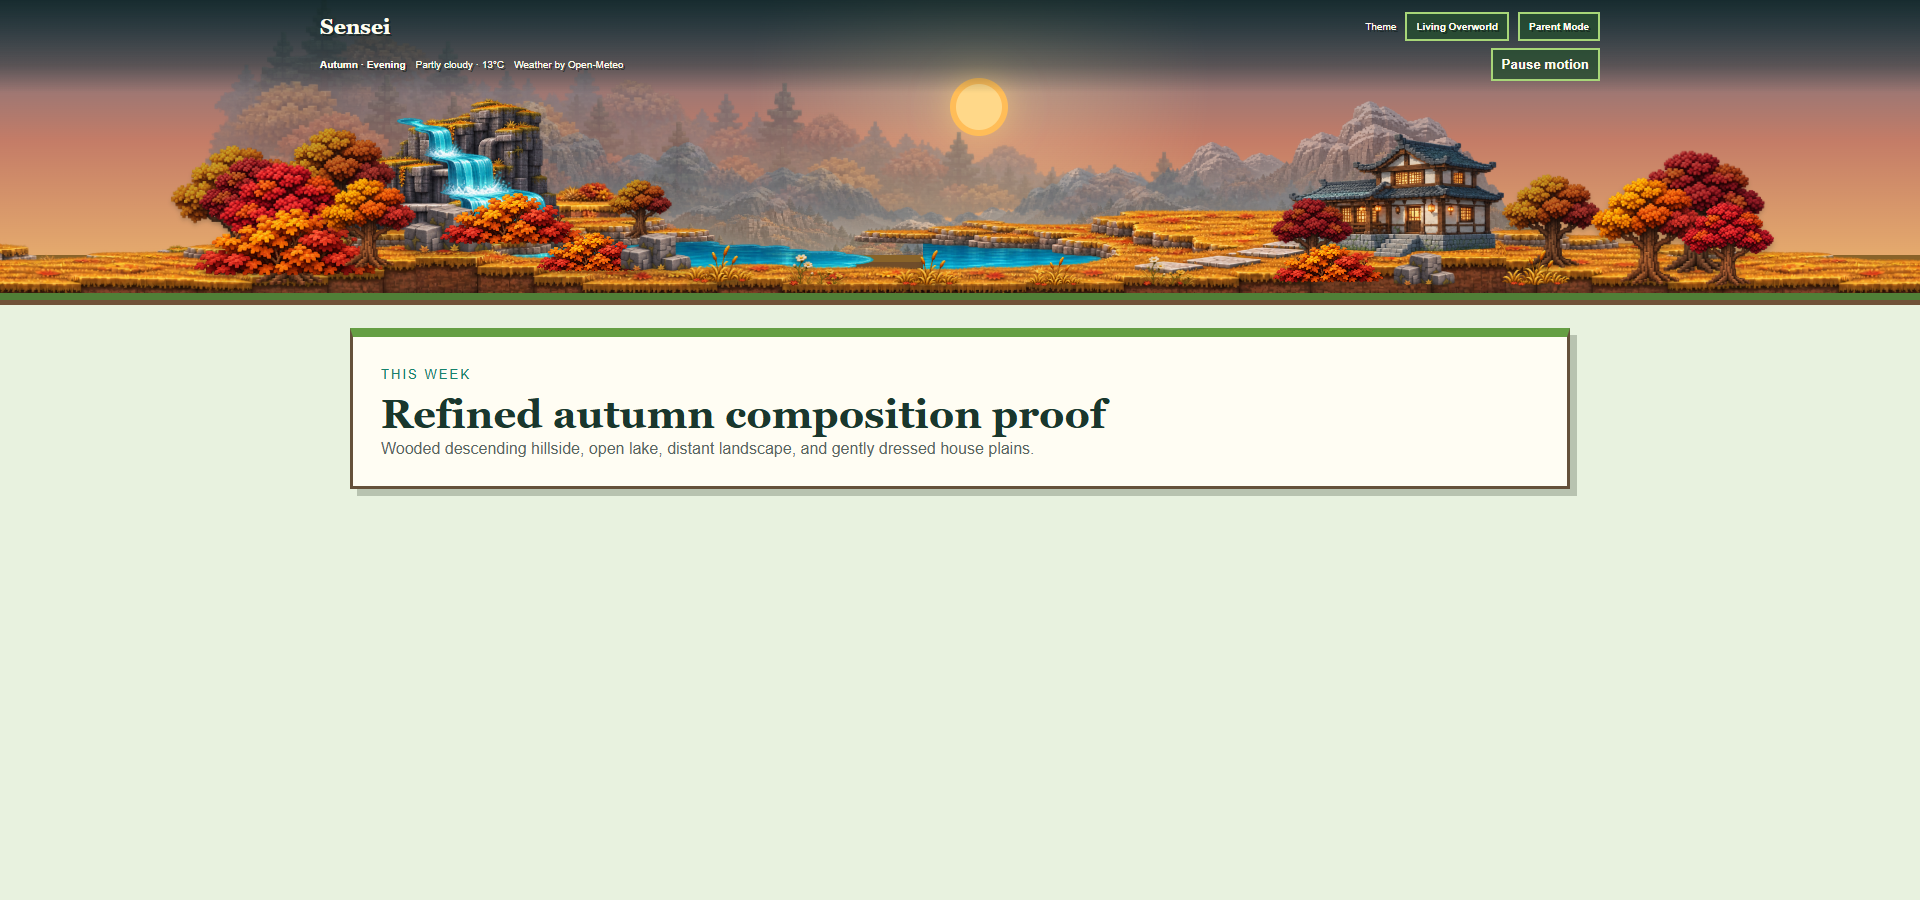
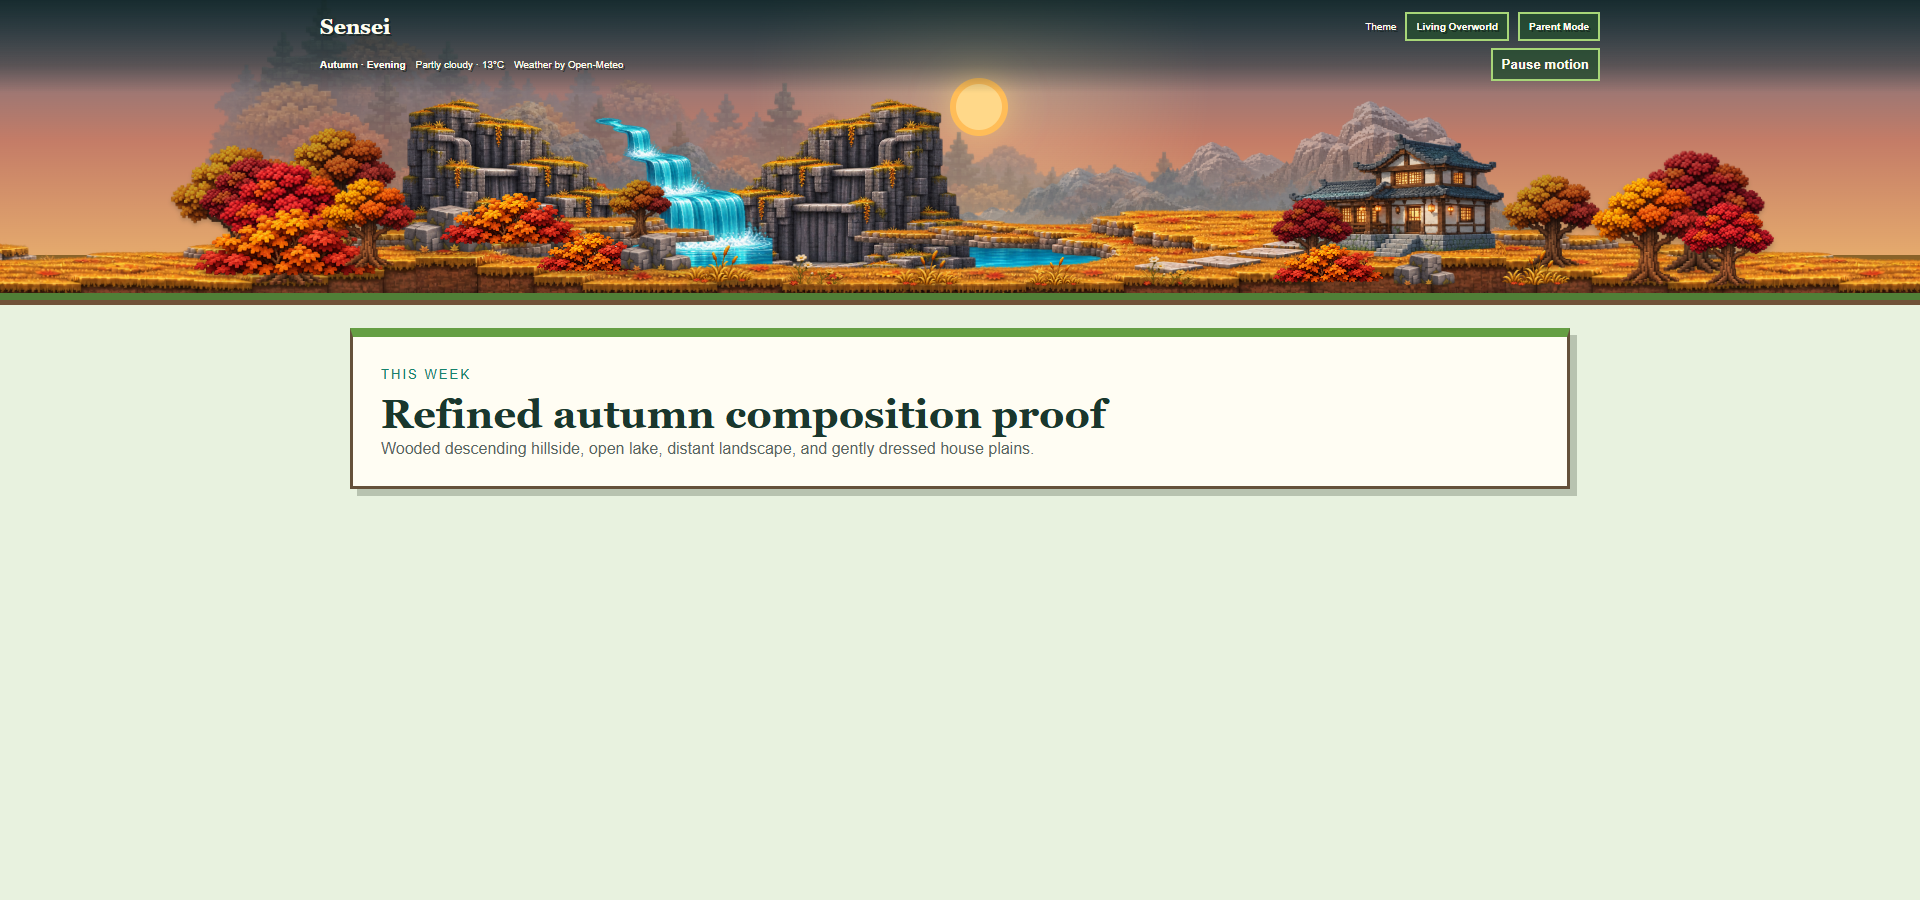
art: place waterfall between mirrored outcrop peaks

Changed region(s): [[0.1875, 0.0933, 0.5312, 0.3111]]

diff --git a/docs/prototypes/living-overworld-autumn-rich.html b/docs/prototypes/living-overworld-autumn-rich.html
@@ -22,10 +22,11 @@
     .lake-extension { z-index: 5; bottom: -2px; width: 650px; clip-path: inset(0 0 0 42%); }
     .lake-extension.bridge { left: calc(50% - 680px); }
     .lake-extension.main { left: calc(50% - 310px); }
-    .waterfall-system { position: absolute; z-index: 6; left: calc(50% - 1010px); bottom: -2px; width: 650px; aspect-ratio: 2172 / 724; pointer-events: none; }
+    .waterfall-system { position: absolute; z-index: 6; left: calc(50% - 610px); bottom: -2px; width: 650px; aspect-ratio: 2172 / 724; pointer-events: none; }
     .waterfall-system img { position: absolute; inset: 0; width: 100%; height: 100%; object-fit: contain; }
-    .waterfall-system .outcrop { z-index: 1; transform: scaleX(-1); }
-    .waterfall-system .water { z-index: 2; transform: translateX(61%); clip-path: inset(0 65% 0 0); }
+    .waterfall-system .outcrop { z-index: 1; }
+    .waterfall-system .outcrop.mirror { transform: scaleX(-1); }
+    .waterfall-system .water { z-index: 2; transform: translateX(30%); clip-path: inset(0 65% 0 0); }
     .meadow { z-index: 6; bottom: -20px; width: 1100px; }
     .meadow.left { right: calc(50% + 500px); }
     .meadow.right { left: calc(50% + 500px); transform: scaleX(-1); }
@@ -38,7 +39,7 @@
     @media (max-width: 1300px) { .scene-object.wide-only { display: none; } }
     @media (min-width: 701px) and (max-width: 1300px) {
       .hillside { left: -300px; }
-      .waterfall-system { left: -200px; }
+      .waterfall-system { left: 0; }
       .lake-extension.bridge { left: -20px; }
       .lake-extension.main { left: 300px; }
     }
@@ -65,7 +66,7 @@
       .lake-extension { bottom: 2px; width: 330px; }
       .lake-extension.bridge { left: -20px; }
       .lake-extension.main { left: 120px; }
-      .waterfall-system { left: -200px; bottom: 2px; width: 330px; }
+      .waterfall-system { left: 0; bottom: 2px; width: 330px; }
       .meadow { display: none; }
       .ground { width: 435px; bottom: -5px; }
       .house { right: -8px; bottom: -2px; width: 365px; }
@@ -96,8 +97,9 @@
     <img class="layer hillside" src="../../public/assets/living-overworld/autumn-modular/terrain-left.png" alt="">
     <img class="layer lake-extension bridge" src="../../public/assets/living-overworld/autumn-structural/water-connected.png" alt="">
     <img class="layer lake-extension main" src="../../public/assets/living-overworld/autumn-structural/water-connected.png" alt="">
-    <div class="waterfall-system" data-geometry="aligned-water-and-outcrop">
-      <img class="outcrop" src="../../public/assets/living-overworld/autumn-structural/waterfall-outcrop.png" alt="">
+    <div class="waterfall-system" data-geometry="anchored-original-with-mirrored-clone">
+      <img class="outcrop original" src="../../public/assets/living-overworld/autumn-structural/waterfall-outcrop.png" alt="">
+      <img class="outcrop mirror" src="../../public/assets/living-overworld/autumn-structural/waterfall-outcrop.png" alt="">
       <img class="water" src="../../public/assets/living-overworld/autumn-structural/water-connected.png" alt="">
     </div>
     <img class="layer meadow left" src="../../public/assets/living-overworld/autumn-structural/meadow-extension.png" alt="">

diff --git a/docs/LIVING_OVERWORLD_AUTUMN_FINAL_WATERFALL_HANDOFF.md b/docs/LIVING_OVERWORLD_AUTUMN_FINAL_WATERFALL_HANDOFF.md
@@ -8,20 +8,22 @@ The mountain groups, central valley, sun position, house, path, right-side plain
 
 Pixel comparison confines rendered changes to the waterfall/lake assembly region:
 
-- Desktop changed bounds: `x 96–943`, `y 84–284` in the 1920×900 proof.
-- Mobile changed bounds: `x 0–278`, `y 65–162` in the 390×844 proof.
+- Desktop changed bounds: `x 357–976`, `y 84–285` in the 1920×900 proof.
+- Mobile changed bounds: `x 25–317`, `y 65–162` in the 390×844 proof.
 
-The desktop sun begins beyond the changed horizontal bounds, and the house/right plains remain outside them.
+The sun and background implementation are unchanged; the desktop change bounds reach its left edge only because the new right outcrop peak occupies nearby foreground pixels. The house and right plains remain outside the changed region.
 
-## Mirrored-outcrop result
+## Dual-outcrop result
 
 The mirror-only experiment was rejected because it left the unmodified cascades suspended over the woodland while moving the supporting rock to the center.
 
-The accepted proof keeps the outcrop horizontally mirrored but:
+The accepted proof uses the original outcrop as the fixed anchor and adds a mirrored clone in the same frame:
 
-- Restores the complete assembly to its approved left-side position.
+- The original outcrop retains its approved position, scale, and orientation.
+- The cloned outcrop is horizontally mirrored to form the opposing peak.
+- The two peaks enclose the waterfall rather than moving the whole assembly to one side.
 - Preserves the waterfall asset's vertical position, scale, and upper elevation.
-- Uses a cascade-only presentation of the existing water asset, shifted 61% horizontally so the three falls sit on the mirrored terraces.
+- Uses a cascade-only presentation of the existing water asset, shifted 30% within the shared frame so the three falls descend between the peaks.
 - Keeps the water in front of cliff faces while the authored ledges remain visible.
 - Uses two lake-only crops from the same existing water asset: a short bridge from the final foam and the original central lake overlap.
 - Adds no artwork and does not change any source image.
@@ -46,9 +48,11 @@ Detail:
 
 The proof capture validates at 390px, 1100px, 1920px, and 32:9:
 
-- The outcrop is horizontally mirrored.
+- The original outcrop remains untransformed and anchored.
+- Its clone occupies the same frame and is horizontally mirrored.
+- Both outcrop frames match exactly.
 - The cascade layer retains the same dimensions and vertical anchor as the rock layer.
-- The expected 61% cascade alignment is applied.
+- The expected 30% center-cascade alignment is applied.
 - The upper waterfall elevation is unchanged.
 - All assets load.
 - Visible environmental-object bases remain within the scenic frame.
